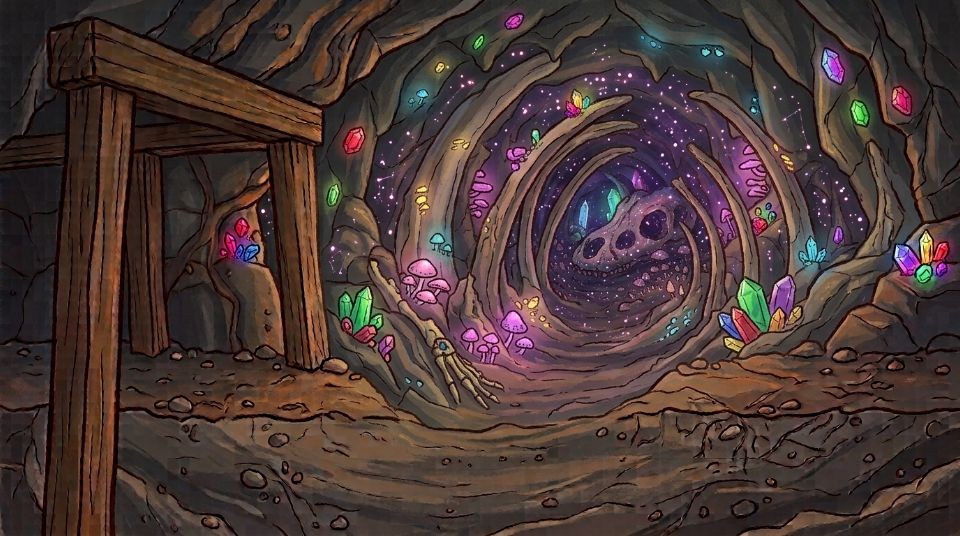
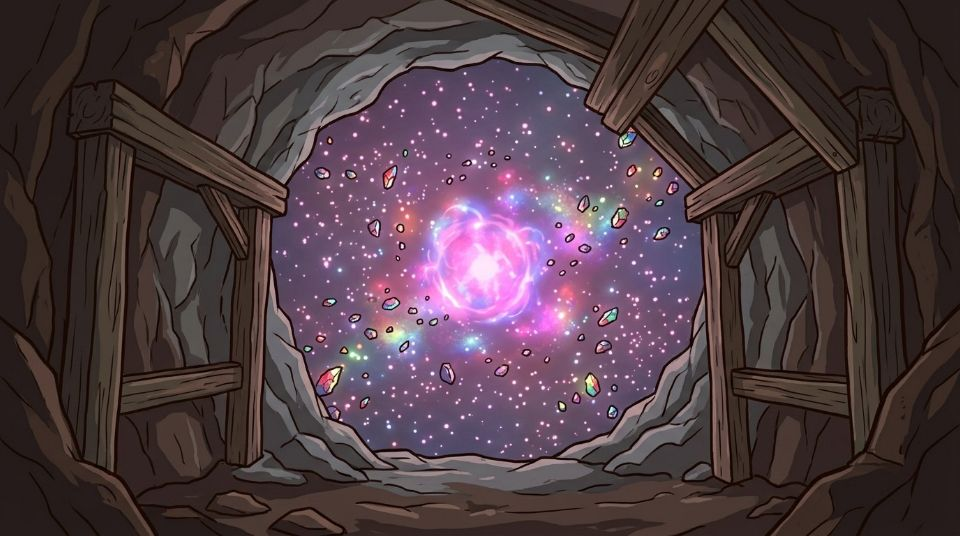
tsuruhashi: 仲間・家宝・売店の絵と星の核の描き直しを入れる
ユーザーが Gemini で描いた追加の4枚（2026-10-05、チャットに添付）。

- 仲間7種: 仲間のタブの顔と、採掘の絵の中の仲間（振り下ろしに合わせて傾く・機械は震える／弾む）。設定で図形に戻せる
- 家宝6種: 代替わりの画面・家宝の棚・社史（前は絵文字）
- 売店の3品: 社員食堂・大きな荷車・特製弁当（弁当のボタンにも）
- 星の核の景色を描き直しの絵に
- cut_sheet.js に名前指定（--names/--dir）・つなぎの弱め（--r）・すき間の白抜き（--holes）
- build_app_web.py が art/ の下の全フォルダを埋め込む

Claude-Session: https://claude.ai/code/session_01G5eBehMXwaPcVcsRhsTTWa

diff --git a/projects/tsuruhashi/prototype/game.html b/projects/tsuruhashi/prototype/game.html
@@ -185,7 +185,10 @@ button:focus-visible{outline:3px solid var(--accent2);outline-offset:2px}
 .hopt .g{color:var(--good)} .hopt .x{color:var(--bad)}
 .hopt[aria-pressed="true"]{border-color:var(--accent);background:var(--accent-soft)}
 .hopt.drop[aria-pressed="true"]{border-color:var(--bad)}
-.hic{flex:0 0 34px;height:34px;border-radius:10px;display:grid;place-items:center;background:var(--accent-soft);font-size:18px}
+.hic{flex:0 0 44px;height:44px;border-radius:10px;display:grid;place-items:center;background:var(--accent-soft);font-size:18px;overflow:hidden}
+.hic img{width:44px;height:44px;object-fit:contain}
+.card .shopic{flex:0 0 56px;height:56px;object-fit:contain}
+.bentobtn img{width:26px;height:26px;display:block;margin:0 auto -2px}
 .lv{display:inline-block;margin-left:6px;font-size:11px;padding:0 6px;border-radius:8px;background:var(--accent);color:#fff;vertical-align:2px}
 .cardnote{font-size:13px;color:var(--muted);margin:2px 0}
 .big2{font-size:22px;font-weight:800;color:var(--accent)}
@@ -544,7 +547,7 @@ const fresh = () => ({
   heir:[], mapTo:0, genStat:{ species:0, crits:0 }, passTold:false,
   gen:1, fame:0, creed:[], genDepth:0, best:0, genStart:NOW(), history:[],
   ach:{}, st:{ blocks:0, crits:0, veins:0, ads:0, appraise:0, sold:0, beds:0, play:0, best1:0 },
-  sound:true, vol:2, bgm:2, amb:true, haptic:true, theme:'auto', notifAsked:false, buyN:1, tut:0, reduce:false,
+  sound:true, vol:2, bgm:2, amb:true, haptic:true, theme:'auto', notifAsked:false, buyN:1, tut:0, reduce:false, crewArt:true,
 });
 // 保存の形が変わったときはここで古い形を直す（v は保存の版）
 function migrate(o){
@@ -958,7 +961,13 @@ function artLoad(k){
   im.src = artUrl(k); ART_IMG[k] = im;
 }
 const artImg = k => ART_OK[k] ? ART_IMG[k] : null;
+const ART_EXTRA = ['heirs/pick', 'heirs/roster', 'heirs/map', 'heirs/diary', 'heirs/safe', 'heirs/charm', 'shop/canteen', 'shop/cart', 'shop/bento'];
 const itemArtKey = it => 'items/' + it.id + '.webp';
+// 家宝・売店・仲間の絵（無ければ今まで通りの絵文字・図形）
+const artTag = (k, size, fb) => ART_OK[k] ? `<img src="${artUrl(k)}" width="${size}" height="${size}" alt="" style="object-fit:contain">` : fb;
+const heirIcon = (k, size) => artTag('heirs/' + k + '.webp', size || 44, HEIR_IC[k]);
+const shopArtKey = k => 'shop/' + (IAP[k] && !IAP[k].perm ? 'bento' : k) + '.webp';
+const crewArtKey = i => 'crew/' + WK[i].id + '.webp';
 
 // ================= 絵（図鑑のかたち） =================
 function gearPath(){
@@ -1146,6 +1155,7 @@ function crewImg(i){
   return CREW_IMG[i];
 }
 function crewIcon(i){
+  if (ART_OK[crewArtKey(i)]) return `<img src="${artUrl(crewArtKey(i))}" width="48" height="48" alt="" style="display:block;object-fit:contain">`;
   const u = typeof ctx !== 'undefined' && crewImg(i);
   if (u) return `<img src="${u}" width="44" height="44" alt="" style="display:block">`;
   const hat = HAT[i];
@@ -1283,7 +1293,7 @@ function buildCo(){
   // 家宝の棚
   h += `<div class="sec">家宝の棚 ${S.heir.length}/${HEIR_SLOTS}</div>`;
   if (!S.heir.length) h += `<div class="note">代替わりのとき、先代が家宝を1つ残します。候補は先代の掘り方で変わります。</div>`;
-  else h += S.heir.map(x => `<div class="card"><div class="hic" aria-hidden="true">${HEIR_IC[x.k]}</div><div class="body"><div class="nm">${HEIRS[x.k].n}<span class="lv">Lv${x.lv}</span></div><div class="ds"><span style="color:var(--good)">${HEIRS[x.k].g(x.lv)}</span> ／ <span style="color:var(--bad)">${HEIRS[x.k].b}</span></div></div></div>`).join('');
+  else h += S.heir.map(x => `<div class="card"><div class="hic" aria-hidden="true">${heirIcon(x.k)}</div><div class="body"><div class="nm">${HEIRS[x.k].n}<span class="lv">Lv${x.lv}</span></div><div class="ds"><span style="color:var(--good)">${HEIRS[x.k].g(x.lv)}</span> ／ <span style="color:var(--bad)">${HEIRS[x.k].b}</span></div></div></div>`).join('');
   if (heirLv(S, 'map') && S.mapTo > 0) h += `<div class="note">先代の地図：${S.mapTo}m までは速く掘れる（${S.depth >= S.mapTo ? '通り過ぎた' : 'あと ' + (S.mapTo - S.depth) + 'm'}）</div>`;
   h += shopHtml();
   // 社訓
@@ -1294,7 +1304,7 @@ function buildCo(){
   h += `<div class="sec">社史</div>`;
   if (!S.history.length) h += `<div class="note">代替わりすると、その代の記録がここに残ります。</div>`;
   else h += `<table class="hist"><tr><th>代</th><th>最深</th><th>図鑑</th><th>名声</th><th>残した家宝</th><th>期間</th></tr>` +
-    S.history.map(r => `<tr><td>${genName(r.gen)}</td><td>${r.depth}m</td><td>${r.species}</td><td>+${fmt(r.fame)}</td><td>${r.heir ? HEIR_IC[r.heir.k] + ' Lv' + r.heir.lv : '－'}</td><td>${fmtDur((r.end - r.start) / 1000)}</td></tr>`).join('') + `</table>`;
+    S.history.map(r => `<tr><td>${genName(r.gen)}</td><td>${r.depth}m</td><td>${r.species}</td><td>+${fmt(r.fame)}</td><td>${r.heir ? heirIcon(r.heir.k, 22) + ' Lv' + r.heir.lv : '－'}</td><td>${fmtDur((r.end - r.start) / 1000)}</td></tr>`).join('') + `</table>`;
   // 通算の記録
   const play = S.st.play || 0;
   h += `<div class="sec">通算の記録</div><div class="card" style="display:grid;grid-template-columns:1fr 1fr;gap:6px 12px">
@@ -1317,7 +1327,7 @@ function shopHtml(){
     const it = IAP[k], have = it.perm && owns(S, k);
     const btn = have && APP ? `<span class="note" style="margin:0">持っています</span>`
       : `<button class="buy" type="button" data-iap="${k}" ${canBuy ? '' : 'disabled'}>${have ? '外す' : price(k)}</button>`;
-    return `<div class="card"><div class="body"><div class="nm">${it.n}${it.perm ? '' : `<span class="cardnote" style="margin-left:6px">手持ち ${S.bento}個</span>`}</div><div class="ds">${it.d}</div></div>${btn}</div>`;
+    return `<div class="card">${ART_OK[shopArtKey(k)] ? `<img class="shopic" src="${artUrl(shopArtKey(k))}" alt="">` : ''}<div class="body"><div class="nm">${it.n}${it.perm ? '' : `<span class="cardnote" style="margin-left:6px">手持ち ${S.bento}個</span>`}</div><div class="ds">${it.d}</div></div>${btn}</div>`;
   }).join('');
   h += `<div class="note">${APP ? (canBuy ? '買い切りは機種を変えても「購入を復元」（設定）で戻ります。弁当は使い切りで、復元はできません。' : 'いまはストアにつながっていません。') : '試作ではお金はかからず、その場で付きます（買い切りはもう一度押すと外れます）。'}</div>`;
   return h;
@@ -1331,6 +1341,7 @@ function buildSettings(){
     <div class="srow"><span>BGM</span><button class="mini" type="button" id="bgmBtn">${['なし', '小', '中', '大'][S.bgm == null ? 2 : S.bgm]}</button></div>
     <div class="srow"><span>環境音（坑道の音）</span><button class="mini" type="button" id="ambBtn">${onoff(S.amb)}</button></div>
     <div class="srow"><span>振動</span><button class="mini" type="button" id="hapBtn">${onoff(S.haptic)}</button></div>
+    <div class="srow"><span>仲間の絵</span><button class="mini" type="button" id="artBtn">${S.crewArt !== false ? 'イラスト' : '図形'}</button></div>
     <div class="srow"><span>動きを減らす</span><button class="mini" type="button" id="redBtn">${reducedOS ? '端末で設定ずみ' : onoff(!!S.reduce)}</button></div>
     <div class="srow"><span>表示</span><button class="mini" type="button" id="themeBtn">${({ auto:'端末に合わせる', light:'明るい', dark:'暗い' })[S.theme]}</button></div>`;
   if (APP) h += `<div class="srow"><span>購入</span><button class="mini" type="button" id="restoreBtn">購入を復元</button></div>
@@ -1344,6 +1355,7 @@ function buildSettings(){
   $('ambBtn').addEventListener('click', () => { S.amb = !S.amb; startAmbient(); applyVol(); save(); buildSettings(); });
   $('hapBtn').addEventListener('click', () => { S.haptic = !S.haptic; save(); haptic('light'); buildSettings(); });
   $('themeBtn').addEventListener('click', () => { S.theme = ({ auto:'light', light:'dark', dark:'auto' })[S.theme]; applyTheme(); save(); buildSettings(); });
+  $('artBtn').addEventListener('click', () => { S.crewArt = S.crewArt === false; save(); sfx('ui'); buildSettings(); });
   $('redBtn').addEventListener('click', () => { if (reducedOS) return; S.reduce = !S.reduce; reduced = !!S.reduce; save(); buildSettings(); });
   if ($('restoreBtn')) $('restoreBtn').addEventListener('click', () => appPost({ type:'restore' }));
   if ($('privBtn')) $('privBtn').addEventListener('click', () => appPost({ type:'open', url:'https://tsuruhashi.dailyquarry.com/privacy.html' }));
@@ -1456,7 +1468,7 @@ function updateUI(force){
     ec.style.display = 'block'; ec.textContent = `弁当×${BENTO_X}　${mm >= 60 ? Math.floor(mm / 60) + ':' + String(mm % 60).padStart(2, '0') + ':' : mm + ':'}${String(r % 60).padStart(2, '0')}`;
   } else ec.style.display = 'none';
   eb.hidden = !(S.bento > 0);
-  if (!eb.hidden) eb.innerHTML = `弁当<small>${bentoOn(S) ? '+30分' : '×2 30分'}・${S.bento}個</small>`;
+  if (!eb.hidden) eb.innerHTML = `${ART_OK['shop/bento.webp'] ? `<img src="${artUrl('shop/bento.webp')}" alt="">` : ''}弁当<small>${bentoOn(S) ? '+30分' : '×2 30分'}・${S.bento}個</small>`;
 }
 // 採掘の絵の下の帯：次の目標
 function updateGoal(){
@@ -1666,7 +1678,7 @@ const heirNeedsDrop = () => rbHeir && rbHeir !== 'none' && !heirLv(S, rbHeir) &&
 const heirReady = () => !!rbHeir && (!heirNeedsDrop() || rbDrop >= 0);
 function heirCard(k, lv, attrs, cls){
   const H = HEIRS[k];
-  return `<button class="hopt ${cls || ''}" type="button" ${attrs}><span class="hic" aria-hidden="true">${HEIR_IC[k]}</span><span><b>${H.n}</b><span class="lv">Lv${lv}</span><br><span class="g">＋${H.g(lv)}</span><br><span class="x">－${H.b}</span></span></button>`;
+  return `<button class="hopt ${cls || ''}" type="button" ${attrs}><span class="hic" aria-hidden="true">${heirIcon(k)}</span><span><b>${H.n}</b><span class="lv">Lv${lv}</span><br><span class="g">＋${H.g(lv)}</span><br><span class="x">－${H.b}</span></span></button>`;
 }
 function heirPickHtml(){
   const cands = heirCands(S);
@@ -1979,7 +1991,9 @@ function drawCrew(dt, fy){
       if (row === 0 && t < f.lt && f.i !== 3 && f.i !== 6 && Math.random() < 0.5) crewHit(f.i, fx, f.face);
       f.lt = t;
       const ang = swingAngle(t, per > 0.6 ? 1 : 0.8);
-      if (f.i === 3) { drawDrill(fx, y, f.face, tAll + f.ph, '#6f7b8a', f.sc); if (row === 0 && Math.random() < dt * 4) burst(fx + f.face * 20, y, 1, LAYERS[layerIdxForDepth(S.depth)].block, 0.5); }
+      const spr = S.crewArt !== false && artImg(crewArtKey(f.i));
+      if (spr) drawCrewSprite(spr, f, fx, y, ang);
+      else if (f.i === 3) { drawDrill(fx, y, f.face, tAll + f.ph, '#6f7b8a', f.sc); if (row === 0 && Math.random() < dt * 4) burst(fx + f.face * 20, y, 1, LAYERS[layerIdxForDepth(S.depth)].block, 0.5); }
       else if (f.i === 4) drawRobot(fx, y, f.face, ang, f.sc);
       else if (f.i === 5) drawCart(fx, y, f.face, tAll + f.ph, f.sc);
       else if (f.i === 6) { drawShield(fx, y, f.face, tAll + f.ph, f.sc); if (row === 0 && Math.random() < dt * 5) burst(fx + f.face * 22, y, 1, LAYERS[layerIdxForDepth(S.depth)].block, 0.6); }
@@ -1987,6 +2001,21 @@ function drawCrew(dt, fy){
       }
     }
   }
+}
+// 仲間をイラストで描く（Gemini の絵。2026-10-05）。体の絵は1枚なので、振り下ろしに合わせて前へ傾け、打った瞬間に少し縮める。
+// 機械は小刻みに揺らす（掘削機・掘進シールド）か、上下に弾ませる（ロボ・トロッコ）
+function drawCrewSprite(im, f, x, y, ang){
+  const big = f.i >= HUMAN, h = (big ? 60 : 56) * f.sc;
+  let rot = 0, sy = 1, dx = 0, dy = 0;
+  if (!reduced) {
+    if (f.i < HUMAN || f.i === 4) { const k = Math.max(0, Math.min(1, (ang + 2.3) / 3.05)); rot = (-0.08 + 0.2 * k) * (f.i === 4 ? 0.6 : 1); sy = 1 - 0.07 * Math.max(0, k - 0.82) / 0.18; }
+    else if (f.i === 3 || f.i === 6) { dx = Math.sin(tAll * 40 + f.ph * 9) * 0.8; dy = Math.sin(tAll * 33 + f.ph * 5) * 0.5; }
+    else dy = -Math.abs(Math.sin(tAll * 6 + f.ph * 7)) * 1.6;
+  }
+  ctx.fillStyle = 'rgba(0,0,0,.28)'; ctx.beginPath(); ctx.ellipse(x, y, h * 0.3, h * 0.07, 0, 0, 7); ctx.fill();
+  ctx.save(); ctx.translate(x + dx, y + dy); ctx.scale(f.face, 1); ctx.rotate(rot); ctx.scale(1, sy);
+  ctx.drawImage(im, -h / 2, -h * 0.97, h, h);
+  ctx.restore();
 }
 // 層ごとの破片：結晶のかけら・火の粉・しずく・星屑
 function layerBurst(li, x, y){
@@ -3009,7 +3038,8 @@ function frame(now){
 function frame0(now){
   let dt = (now - lastFrame) / 1000; lastFrame = now;
   if (titleOpen) { try { if (ART_OK['title.jpg']) showTitleArt(); else drawTitle(Math.min(dt, 0.1)); } catch (e) {} }
-  if (artChanged) { artChanged = false; if (tab === 'book') buildBook(); }
+  // 絵が読み終わったら、絵を使う欄を作り直す（起動直後は図形のまま作られていることがある）
+  if (artChanged) { artChanged = false; buildPanels(); updateUI(true); if (tab === 'book') buildBook(); if (tab === 'co') buildCo(); }
   // 止まっていた（裏に回っていた）なら留守として数える
   if (dt > 60 && !pendingAway) { checkAway(); dt = 0; }
   dt = Math.min(dt, 0.1);
@@ -3061,7 +3091,7 @@ if (window.matchMedia) { try { window.matchMedia('(prefers-color-scheme: dark)')
 // 起動
 const had = load();
 syncIap();
-artLoad('title.jpg'); for (let L = 0; L < NLAYER; L++) artLoad('scene' + L + '.jpg'); ITEMS.forEach(it => artLoad(itemArtKey(it)));
+artLoad('title.jpg'); for (let L = 0; L < NLAYER; L++) artLoad('scene' + L + '.jpg'); ITEMS.forEach(it => artLoad(itemArtKey(it))); ART_EXTRA.forEach(k => artLoad(k + '.webp')); WK.forEach((w, i) => artLoad(crewArtKey(i)));
 reduced = reducedOS || !!S.reduce;
 applyTheme();
 camY = S.depth > 0 ? S.depth : -4;

diff --git a/projects/tsuruhashi/tool/cut_sheet.js b/projects/tsuruhashi/tool/cut_sheet.js
@@ -3,21 +3,32 @@
 //   → prototype/art/items/<id>.webp（192×192、背景は透明。アプリに埋め込むので軽くする）と、確認用の prototype/art/check/_sheet<層>.png（git に入れない）
 // 並びは注文書と同じ「上の段 左から3つ → 下の段 左から2つ」＝ ITEMS の順。
 // 背景の色は縁から取り、背景とちがう色のかたまりを大きい順に5つ拾う（小さな透かし・ごみは捨てる）。
+// 図鑑以外（家宝・売店・仲間）は名前を並び順に渡す:
+//   node tool/cut_sheet.js <絵> --names a,b,c --dir heirs [--size 256]  → prototype/art/<dir>/<名前>.webp
+//   並びは「上の段から、段の中は左から」。物の大きさがばらばらで段がずれる絵は、確認用の一覧を見て名前の順を合わせる
 const fs = require('fs');
 const path = require('path');
 const vm = require('vm');
 let pw;
 try { pw = require('playwright'); } catch (e) { pw = require('/opt/node22/lib/node_modules/playwright'); }
 
-const [file, layerArg] = process.argv.slice(2);
-const L = Number(layerArg);
-if (!file || !(L >= 0 && L <= 9)) { console.error('使い方: node tool/cut_sheet.js <絵> <層 0〜9>'); process.exit(1); }
-
-const html = fs.readFileSync(path.join(__dirname, '..', 'prototype', 'game.html'), 'utf8');
-const engine = html.split('/*ENGINE-START*/')[1].split('/*ENGINE-END*/')[0];
-const ctx = {}; vm.createContext(ctx); vm.runInContext(engine + ';this.ITEMS=ITEMS;', ctx);
-const ids = ctx.ITEMS.filter(it => it.L === L).map(it => it.id);
-const OUT = path.join(__dirname, '..', 'prototype', 'art', 'items');
+const args = process.argv.slice(2), file = args[0];
+const opt = k => { const i = args.indexOf('--' + k); return i > 0 ? args[i + 1] : null; };
+const SIZE = +(opt('size') || 192), RAD = +(opt('r') || 2), HOLES = args.includes('--holes');   // HOLES: 囲まれた背景（腕と体のすき間など）も抜く。白い物がある絵（真珠・雪花石）には使わない
+// RAD: かたまりをつなぐ太らせ方。物どうしが近い絵は 1 か 0
+let ids, OUT, L;
+if (opt('names')) {
+  ids = opt('names').split(','); L = opt('dir') || 'misc';
+  OUT = path.join(__dirname, '..', 'prototype', 'art', L);
+} else {
+  L = Number(args[1]);
+  if (!file || !(L >= 0 && L <= 9)) { console.error('使い方: node tool/cut_sheet.js <絵> <層 0〜9>  ／  <絵> --names a,b --dir 置き場 [--size 256]'); process.exit(1); }
+  const html = fs.readFileSync(path.join(__dirname, '..', 'prototype', 'game.html'), 'utf8');
+  const engine = html.split('/*ENGINE-START*/')[1].split('/*ENGINE-END*/')[0];
+  const ctx = {}; vm.createContext(ctx); vm.runInContext(engine + ';this.ITEMS=ITEMS;', ctx);
+  ids = ctx.ITEMS.filter(it => it.L === L).map(it => it.id);
+  OUT = path.join(__dirname, '..', 'prototype', 'art', 'items');
+}
 fs.mkdirSync(OUT, { recursive: true });
 
 const mime = /\.jpe?g$/i.test(file) ? 'image/jpeg' : /\.webp$/i.test(file) ? 'image/webp' : 'image/png';
@@ -26,7 +37,7 @@ const src = 'data:' + mime + ';base64,' + fs.readFileSync(file).toString('base64
 (async () => {
   const b = await pw.chromium.launch();
   const p = await b.newPage();
-  const res = await p.evaluate(async ({ src, n }) => {
+  const res = await p.evaluate(async ({ src, n, SIZE, RAD, HOLES }) => {
     const img = new Image(); img.src = src; await img.decode();
     const W = img.naturalWidth, H = img.naturalHeight;
     const full = document.createElement('canvas'); full.width = W; full.height = H;
@@ -46,7 +57,7 @@ const src = 'data:' + mime + ';base64,' + fs.readFileSync(file).toString('base64
       for (let y = gy * S; y < Math.min(H, gy * S + S); y++) for (let x = gx * S; x < Math.min(W, gx * S + S); x++) if (diff((y * W + x) * 4) > 60) hit++;
       if (hit * 4 >= S * S) m[gy * gw + gx] = 1;
     }
-    const R = 2, md = new Uint8Array(gw * gh);
+    const R = RAD, md = new Uint8Array(gw * gh);
     for (let gy = 0; gy < gh; gy++) for (let gx = 0; gx < gw; gx++) if (m[gy * gw + gx])
       for (let dy = -R; dy <= R; dy++) for (let dx = -R; dx <= R; dx++) { const x = gx + dx, y = gy + dy; if (x >= 0 && y >= 0 && x < gw && y < gh) md[y * gw + x] = 1; }
     const lab = new Int32Array(gw * gh), blobs = [];
@@ -96,6 +107,20 @@ const src = 'data:' + mime + ';base64,' + fs.readFileSync(file).toString('base64
         if (x > 0) st.push(k - 1); if (x < side - 1) st.push(k + 1);
         if (k >= side) st.push(k - side); if (k < side * (side - 1)) st.push(k + side);
       }
+      // 囲まれた背景のすき間：背景とほぼ同じ色のひとまとまりが大きければ抜く（小さい白目・光は残す）
+      if (HOLES) {
+        const lim = side * side * 0.002;
+        for (let s0 = 0; s0 < side * side; s0++) {
+          if (seen[s0] || dif(s0 * 4) > 24) continue;
+          const reg = [s0], q = [s0]; seen[s0] = 1;
+          while (q.length) { const k = q.pop(), x = k % side;
+            for (const nb of [x > 0 ? k - 1 : -1, x < side - 1 ? k + 1 : -1, k - side, k + side]) {
+              if (nb < 0 || nb >= side * side || seen[nb] || dif(nb * 4) > 24) continue;
+              seen[nb] = 1; reg.push(nb); q.push(nb);
+            } }
+          if (reg.length >= lim) for (const k of reg) d[k * 4 + 3] = 0;
+        }
+      }
       // 隣の物のはみ出し（別のかたまりに属する画素）は消す
       const offX = Math.round((side - w) / 2), offY = Math.round((side - h) / 2);
       for (let y = 0; y < side; y++) for (let x = 0; x < side; x++) {
@@ -105,8 +130,8 @@ const src = 'data:' + mime + ';base64,' + fs.readFileSync(file).toString('base64
         if (l && l !== r.id) d[(y * side + x) * 4 + 3] = 0;
       }
       cx.putImageData(id, 0, 0);
-      const o = document.createElement('canvas'); o.width = o.height = 192;
-      const ox = o.getContext('2d'); ox.imageSmoothingQuality = 'high'; ox.drawImage(c, 0, 0, 192, 192);
+      const o = document.createElement('canvas'); o.width = o.height = SIZE;
+      const ox = o.getContext('2d'); ox.imageSmoothingQuality = 'high'; ox.drawImage(c, 0, 0, SIZE, SIZE);
       return o;
     });
     // 確認用の一覧（並び順に横一列、市松模様の上）
@@ -115,7 +140,7 @@ const src = 'data:' + mime + ';base64,' + fs.readFileSync(file).toString('base64
     for (let y = 0; y < 192; y += 16) for (let x = 0; x < sh.width; x += 16) { sx.fillStyle = ((x + y) / 16) % 2 ? '#ddd' : '#fff'; sx.fillRect(x, y, 16, 16); }
     outs.forEach((o, i) => sx.drawImage(o, i * 192, 0));
     return { found, bg, size: [W, H], pngs: outs.map(o => o.toDataURL('image/webp', 0.88)), sheet: sh.toDataURL('image/png') };
-  }, { src, n: ids.length });
+  }, { src, n: ids.length, SIZE, RAD, HOLES });
   await b.close();
 
   const put = (name, url) => fs.writeFileSync(path.join(OUT, name), Buffer.from(url.split(',')[1], 'base64'));

diff --git a/projects/tsuruhashi/tool/build_app_web.py b/projects/tsuruhashi/tool/build_app_web.py
@@ -33,15 +33,18 @@ def main():
     assert 'fonts.googleapis.com' not in s
     for name in ('window.__TSURU_APP', 'TsuruApp.postMessage', 'window.tsuruAdResult', 'window.tsuruSetApp', 'window.tsuruPause', 'window.tsuruResume', 'TStore'):
         assert name in s, 'つなぎの口が無い: ' + name
-    # 絵を埋め込む（items/*.webp・title.jpg・scene0〜9.jpg）。無い物はゲームが図形で描く
+    # 絵を埋め込む（title.jpg・scene0〜9.jpg・items/・crew/・heirs/・shop/。check/ は除く）。無い物はゲームが図形で描く
     art = {}
     mime = {'.webp': 'image/webp', '.jpg': 'image/jpeg', '.png': 'image/png'}
-    for sub, names in (('', sorted(os.listdir(ART)) if os.path.isdir(ART) else []), ('items/', sorted(os.listdir(os.path.join(ART, 'items'))) if os.path.isdir(os.path.join(ART, 'items')) else [])):
-        for n in names:
+    subs = [('', ART)] + [(d + '/', os.path.join(ART, d)) for d in sorted(os.listdir(ART)) if os.path.isdir(os.path.join(ART, d)) and d != 'check'] if os.path.isdir(ART) else []
+    for sub, folder in subs:
+        for n in sorted(os.listdir(folder)):
             ext = os.path.splitext(n)[1].lower()
             if ext not in mime or n.startswith('_'):
                 continue
-            b = open(os.path.join(ART, sub, n), 'rb').read()
+            if os.path.isdir(os.path.join(folder, n)):
+                continue
+            b = open(os.path.join(folder, n), 'rb').read()
             art[sub + n] = 'data:%s;base64,%s' % (mime[ext], base64.b64encode(b).decode('ascii'))
     if art:
         import json

diff --git a/projects/tsuruhashi/CLAUDE.md b/projects/tsuruhashi/CLAUDE.md
@@ -18,13 +18,13 @@ WebView で動かす。**ゲームの直しは game.html だけ**（`python tool
 | `tool/build_app_web.py` | アプリに入れるゲーム本体を組み立てる（`app/assets/web/index.html`。外の書体を外し、BGM を `app/assets/audio/bgm/` に写す）。組み立てた物は git に入れない |
 | `tool/make_icon.js` | 図形で描いた仮のアイコン。**2026-10-04 から Gemini のアイコンに替えた**（`tool/import_art.js`）。絵が無いときの予備として残す |
 | `tool/import_art.js` | Gemini の絵（アイコン・タイトル・層の景色）を使う大きさにして置く。`node tool/import_art.js <絵のフォルダ>` → アイコン 1024 PNG、`prototype/art/title.jpg`（768×1376）、`prototype/art/scene0〜9.jpg`（960×536）。どの絵が何かは `tool/art_sources.json` |
-| `prototype/art/` | Gemini の絵（ユーザーが Gemini アプリで描いた物。商用可）。`items/<id>.webp`（図鑑50種・192・背景透明）・`title.jpg`・`scene0〜9.jpg`。`check/` は切り分けの確認用で git に入れない |
+| `prototype/art/` | Gemini の絵（ユーザーが Gemini アプリで描いた物。商用可）。`items/<id>.webp`（図鑑50種・192・背景透明）・`crew/<WKのid>.webp`（仲間7種・256）・`heirs/<家宝>.webp`（6種）・`shop/canteen・cart・bento.webp`・`title.jpg`・`scene0〜9.jpg`。`check/` は切り分けの確認用で git に入れない |
 | `tool/make_shots.js` | App Store の掲載画像6枚（6.7インチ 1290×2796、上に見出し）を `store/screenshots/` に作る。ゲームに `window.__ev` を差した写しを一時フォルダで開き、`__TSURU_APP` を偽ってアプリと同じ見た目で撮る。撮るたびに「中身が写っているか・『試作』の文字がないか・大きさ」を検査（docs/app-pitfalls.md 4番） |
 | `STORE_LISTING.md` | App Store の掲載文の下書き（サブタイトル・キーワード・概要・審査へのメモ）。名前と値段はユーザーが決める |
 | `app/` | iOS アプリの外側（Flutter、2026-10-04）。hikari7 の app を写し、全画面広告を外し、BGM 3曲・通知を足した。課金アイテムは下の「広告と課金」、Bundle ID `com.namiki.tsuruhashi` |
 | `legal/` `site/` | プライバシーポリシー・サポート・利用規約と、公開ページの入口・app-ads.txt・robots.txt（hikari7 と同じ形）。`.github/workflows/tsuruhashi-site.yml` が master への push で Cloudflare Pages の `tsuruhashi` に出し、`tsuruhashi.dailyquarry.com` をつなぐ。**master に入れた時点で公開になる** |
 | `tool/smoke.js` | 画面の通し確認。ブラウザで5つの状態（はじめて・中盤・岩盤・代替わりの前・深層）を開き、タブ・シート・買い物を押してエラー0件か。CI で毎回回る（playwright） |
-| `tool/cut_sheet.js` | Gemini の図鑑の絵（1枚に5種・白い背景）を1種ずつに切る。`node tool/cut_sheet.js <絵> <層0〜9>` → `prototype/art/items/<id>.webp`（192・背景透明）と並び確認用の `prototype/art/check/_sheet<層>.png`。縁の色を背景とみなし、大きいかたまり5つを「上の段左から3つ→下の段左から2つ」＝ ITEMS の順に当てる（小さな透かしは捨てる。隣の物のはみ出しは消す） |
+| `tool/cut_sheet.js` | Gemini の図鑑の絵（1枚に5種・白い背景）を1種ずつに切る。図鑑以外は `--names a,b --dir 置き場 [--size 256] [--r 1] [--holes]`（`--r` は物どうしが近い絵、`--holes` は腕と体のすき間の白を抜く。白い物がある絵には使わない）。`node tool/cut_sheet.js <絵> <層0〜9>` → `prototype/art/items/<id>.webp`（192・背景透明）と並び確認用の `prototype/art/check/_sheet<層>.png`。縁の色を背景とみなし、大きいかたまり5つを「上の段左から3つ→下の段左から2つ」＝ ITEMS の順に当てる（小さな透かしは捨てる。隣の物のはみ出しは消す） |
 
 ## 中身（v2、2026-10-03）
 
@@ -132,6 +132,12 @@ WebView で動かす。**ゲームの直しは game.html だけ**（`python tool
 - アプリでは `tool/build_app_web.py` が絵を index.html に data URI で埋め込む（`window.__TSURU_ART`、61枚・約2.6MB）。ブラウザの試作は `art/` から読む。
   試作ページに出すときは `art/` も一緒に出す
 - 起動直後の「仲間が自動で掘ります」は、層の見出しのカードが消えてから出す（重なっていた）
+- **追加の絵**（2026-10-05、チャットに添付）: 仲間7種（仲間のタブの顔と、**採掘の絵の中の仲間**）、家宝6種（代替わりの画面・家宝の棚・社史。前は絵文字）、
+  売店の3品（社員食堂・大きな荷車・特製弁当。弁当のボタンにも）、星の核の景色の描き直し（星空がひらける絵）。売店の絵に余分な「鉱石の木箱」があったが使わない。
+  仲間の絵は下に英語の名前が入っていたので、文字の帯を白で消してから切った
+- **採掘の絵の仲間をイラストに**（`drawCrewSprite`、設定「仲間の絵 イラスト／図形」`S.crewArt`、既定はイラスト）: 体の絵は1枚なので、
+  人とロボは振り下ろしに合わせて前へ傾け、打った瞬間に少し縮める。掘削機と掘進シールドは小刻みに震え、トロッコは弾む。社長と隠居した先代は図形のまま
+  （社長の絵が無い。頼むなら黄色いヘルメットの社長1人）。絵が読み終わったら欄を作り直す（`artChanged` → `buildPanels`）
 
 ## 見どころ（2026-10-04 指示「もっと、見ている人が楽しめるように」）
 
